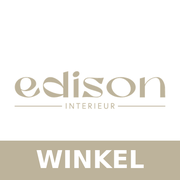
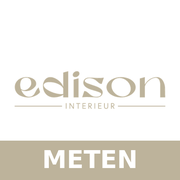
Versie 3.0.4: winkel-icoon met METEN
Claude-Session: https://claude.ai/code/session_01GdR24tAqspRT7CjwB1JEsL

Changed region(s): [[0.1944, 0.8333, 0.8056, 0.9444]]

diff --git a/winkel.html b/winkel.html
@@ -7,7 +7,7 @@
 <meta name="robots" content="noindex, nofollow">
 <meta name="theme-color" content="#ffffff">
 <meta name="apple-mobile-web-app-capable" content="yes">
-<meta name="apple-mobile-web-app-title" content="Edison winkel">
+<meta name="apple-mobile-web-app-title" content="Edison meten">
 <link rel="icon" type="image/png" href="winkel-favicon.png">
 <link rel="apple-touch-icon" href="winkel-apple-touch-icon.png">
 <link rel="manifest" href="winkel.webmanifest">
@@ -15,7 +15,7 @@
 </head>
 <body class="winkel">
 <div id="app"></div>
-<script src="config.js?v=3.0.3"></script>
-<script src="winkel.js?v=3.0.3"></script>
+<script src="config.js?v=3.0.4"></script>
+<script src="winkel.js?v=3.0.4"></script>
 </body>
 </html>

diff --git a/sw.js b/sw.js
@@ -1,6 +1,6 @@
 /* Service worker: maakt de app offline beschikbaar.
    Verhoog VERSIE bij elke wijziging, zodat toestellen de nieuwe versie ophalen. */
-const VERSIE = 'emf-3.0.3';
+const VERSIE = 'emf-3.0.4';
 const BESTANDEN = ['./', 'index.html', 'style.css', 'catalogus.js', 'config.js', 'app.js', 'logo.png', 'manifest.webmanifest', 'apple-touch-icon.png', 'icon-192.png', 'icon-512.png'];
 
 self.addEventListener('install', e => {

diff --git a/config.js b/config.js
@@ -6,7 +6,7 @@
    ========================================================= */
 
 const CONFIG = {
-  versie: '3.0.3',
+  versie: '3.0.4',
 
   // Beginwaarden (aan te passen in de app onder Instellingen)
   standaard: {
